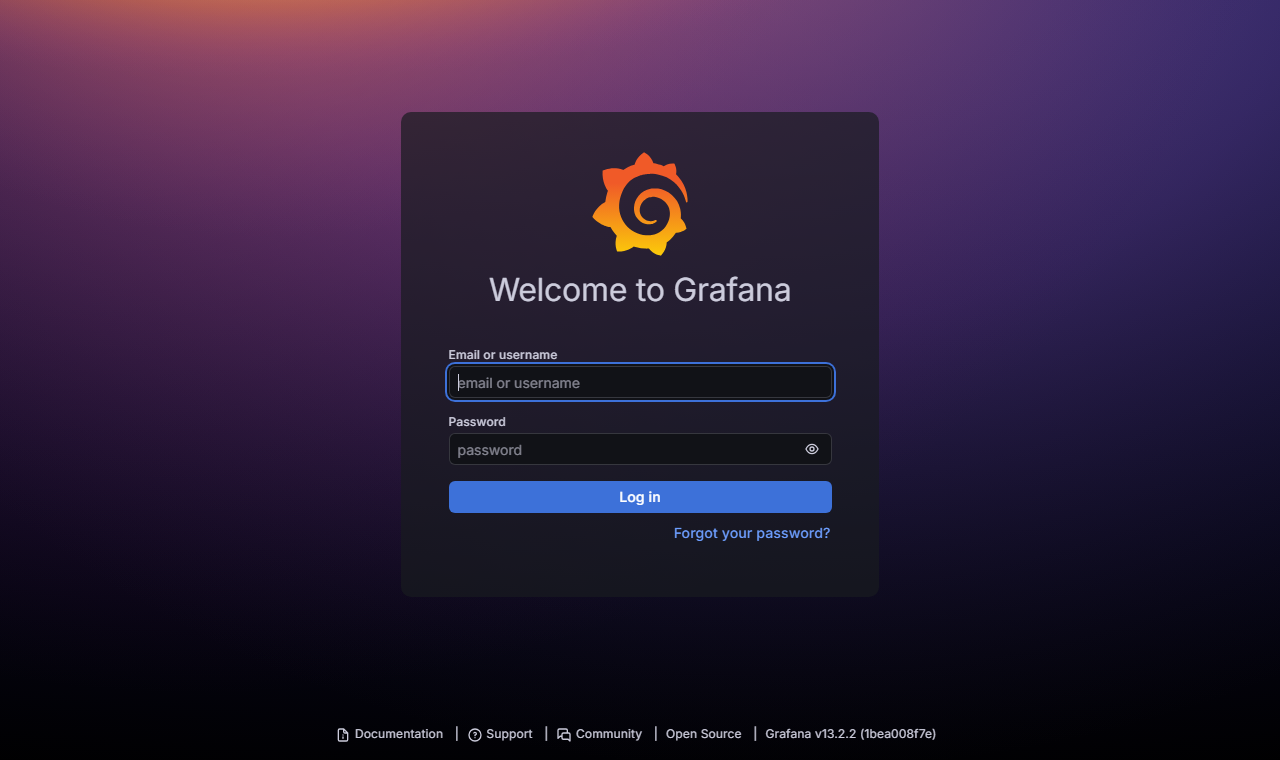
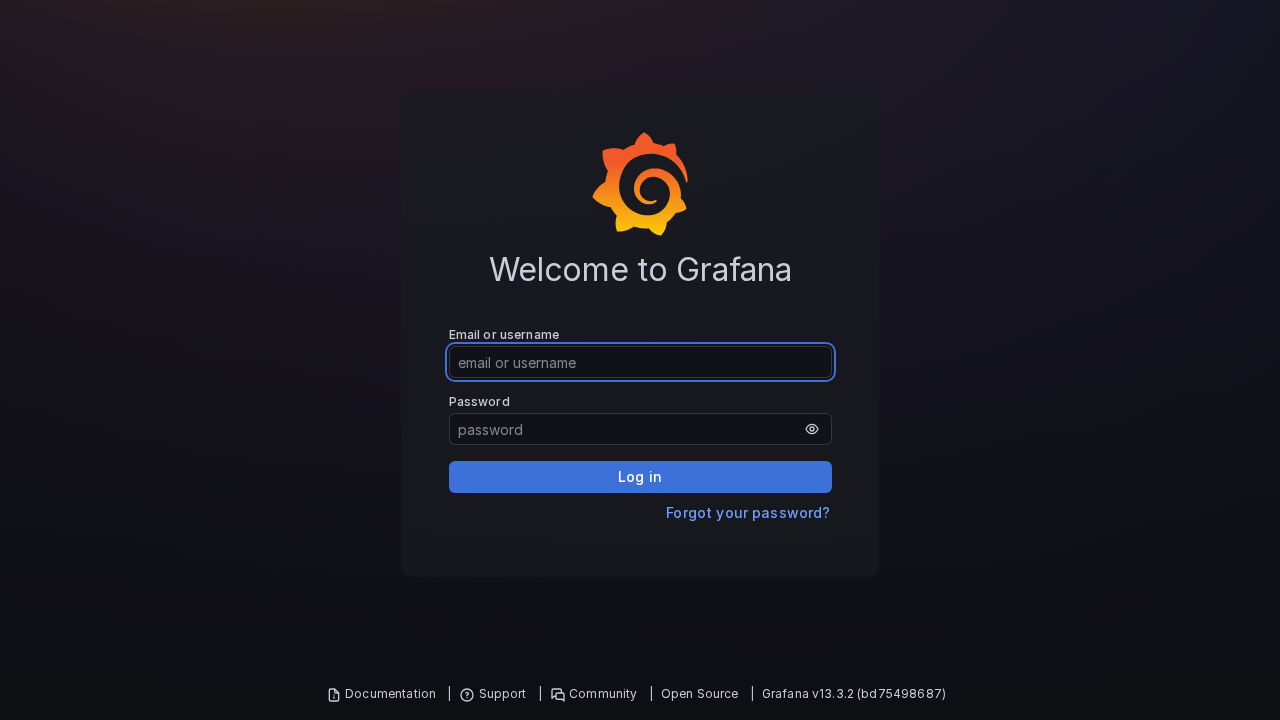
Test Prometheus guide end to end and add real screenshots
Tested every step on Ubuntu 24.04 with AMS Enterprise 3.2.0,
Prometheus 3.14.0, Grafana 13.3.2 and MongoDB 8.0 (two-node cluster).

- Split the Prometheus/Grafana install into 2a/2b/2c with their own checks
- Warn that port 9090 has no password and listens on all interfaces
- Update Grafana 13 click paths (Data sources, Add data source,
  Import dashboard) and the DS_PROMETHEUS selection on import
- Use the live app and give the exact player URL for the viewer check
- Use a second stream ID for the cluster test
- Fix the discovery check: journalctl -n 1 shows a systemd line, so grep
  for "Exported"; show the real JSON output
- Dashboard: stat panels now use instant queries, so a stopped node no
  longer shows as up with frozen values in the Overview row
- Describe what happens to a stopped node in graphs and the Instance menu
- Note leftover data when moving a monitoring server from Part 2 to Part 3
- Remove emoji headings and filler lines; add sidebar position and a note
  on the Kafka-based Grafana guide
- Replace six screenshot placeholders with real screenshots and add one

diff --git a/docs/guides/monitoring/monitoring-ams-with-prometheus.md b/docs/guides/monitoring/monitoring-ams-with-prometheus.md
@@ -2,18 +2,24 @@
 title: Monitoring Ant Media Server with Prometheus
 description: Step by step, see every Ant Media Server metric on a live Grafana dashboard, for a single server, a manual cluster, or an autoscaling cluster.
 keywords: [Prometheus, Grafana, monitoring, metrics, dashboard, cluster, autoscaling, MongoDB, Ant Media Server]
+sidebar_position: 6
+sidebar_label: Prometheus
 ---
 
 # Monitoring Ant Media Server with Prometheus
 
-Ant Media Server (AMS) constantly measures what it is doing: live streams, viewers, CPU, memory and much more. In this guide you'll turn those numbers into a **live dashboard in your browser**, using two free tools:
+Ant Media Server (AMS) measures what it is doing all the time: live streams, viewers, CPU, memory and more. In this guide you turn those numbers into a **live dashboard in your browser**, using two free tools:
 
 - **Prometheus** collects the numbers every 15 seconds and keeps 15 days of history.
-- **Grafana** draws them as graphs, with a ready-made Ant Media dashboard.
+- **Grafana** draws them as graphs, using a ready-made Ant Media dashboard.
 
 ![The finished Ant Media Server dashboard in Grafana](@site/static/img/monitoring/prometheus/grafana-ams-dashboard-overview.png)
 
-At the end you'll be able to answer questions such as *"How many people are watching right now?"*, *"Is my server running out of CPU or disk?"* and *"Which node in my cluster is struggling?"* at a glance.
+When you finish, you can see at a glance how many people are watching, whether a server is running out of CPU or disk, and which node in your cluster is struggling.
+
+:::note
+This guide reads metrics directly from AMS and needs no extra services. If you already send AMS statistics to Kafka and Elasticsearch, see [Monitoring with Grafana](/guides/monitoring/monitoring-ams-with-grafana/) instead.
+:::
 
 ## Choose your setup
 
@@ -25,29 +31,33 @@ At the end you'll be able to answer questions such as *"How many people are watc
 | A cluster with a fixed set of nodes | [Part 2: Manual cluster](#part-2-manual-cluster) | 20 min |
 | A cluster that adds and removes nodes automatically | [Part 3: Autoscaling cluster](#part-3-autoscaling-cluster) | 30 min |
 
-Parts 2 and 3 reuse steps from Part 1, so it helps to read Part 1 first.
+Parts 2 and 3 reuse steps from Part 1, so read Part 1 first even if you have a cluster.
 
-**You'll need:** Ubuntu 24.04 servers, SSH access with `sudo`, and permission to change your firewall or cloud security groups.
+### Requirements
+
+- Servers running **Ubuntu 24.04** on **x86_64**. To check, run `uname -m` on each server. The output must be `x86_64`.
+- SSH access to each server with `sudo` rights.
+- Permission to change your firewall or cloud security groups.
 
 :::tip How to read the commands
-Each code block's title says **where** to run it. After each step, compare your output with **You should see**. Replace anything written like `THIS` with your own value.
+Each code block's title says **where** to run it. After each step, compare your output with **You should see**. Replace anything written in capitals, like `YOUR_SERVER_IP`, with your own value.
 :::
 
 ---
 
 ## Part 1: Standalone server {#part-1-standalone-server}
 
-Everything runs on your AMS server.
+In this part, Prometheus and Grafana run on your AMS server.
 
 ### Step 1: Check that AMS publishes metrics
 
-AMS publishes its metrics on port **9090**. This is switched on by default.
+AMS publishes its metrics on port **9090**. This is turned on by default.
 
 ```bash title="Run on your AMS server"
 curl -s http://127.0.0.1:9090/metrics | grep "^antmedia_streams_live"
 ```
 
-**You should see** a line ending in a number, the live streams right now:
+**You should see** one line ending in a number, which is the number of live streams right now:
 
 ```text
 antmedia_streams_live{antmedia_instance_id="…",antmedia_instance_ip="…",antmedia_private_ip="…"} 0.0
@@ -57,17 +67,35 @@ antmedia_streams_live{antmedia_instance_id="…",antmedia_instance_ip="…",antm
 Make sure `/usr/local/antmedia/conf/red5.properties` contains `prometheus.enabled=true` and `prometheus.port=9090`, then run `sudo systemctl restart antmedia` and try again.
 :::
 
+:::warning Keep port 9090 closed to the internet
+The metrics page has no password, and AMS answers on port 9090 on every network interface. Do **not** open port 9090 in your firewall or security group for the standalone setup. Prometheus reads it from inside the server.
+:::
+
 ### Step 2: Install Prometheus and Grafana {#install}
 
-Paste this whole block. It installs Prometheus 3.14.0 (and checks that the download isn't damaged) and Grafana:
+Prometheus runs on port **9091**, inside the server only, because AMS already uses port 9090.
+
+#### 2a. Download Prometheus and check the file
 
 ```bash title="Run on your AMS server"
-# --- Prometheus ---
 cd ~
 sudo apt-get update
 sudo apt-get install -y curl ca-certificates apt-transport-https wget gnupg
 curl -fLO https://github.com/prometheus/prometheus/releases/download/v3.14.0/prometheus-3.14.0.linux-amd64.tar.gz
 printf '%s\n' 'f665c6da19eb7ba399c915d30c7d9793c9b417bf8a749b504bc470678631478d  prometheus-3.14.0.linux-amd64.tar.gz' | sha256sum -c -
+```
+
+**You should see** this as the last line:
+
+```text
+prometheus-3.14.0.linux-amd64.tar.gz: OK
+```
+
+If you see `FAILED`, the download is damaged. Delete the file with `rm prometheus-3.14.0.linux-amd64.tar.gz` and run the block again.
+
+#### 2b. Install Prometheus as a service
+
+```bash title="Run on your AMS server"
 tar -xzf prometheus-3.14.0.linux-amd64.tar.gz
 sudo install -m 755 prometheus-3.14.0.linux-amd64/prometheus prometheus-3.14.0.linux-amd64/promtool /usr/local/bin/
 id prometheus >/dev/null 2>&1 || sudo useradd --system --no-create-home --shell /usr/sbin/nologin prometheus
@@ -89,24 +117,29 @@ Restart=on-failure
 [Install]
 WantedBy=multi-user.target
 EOF
+sudo systemctl daemon-reload
+prometheus --version | head -n 1
+```
 
-# --- Grafana ---
+**You should see** `prometheus, version 3.14.0`. Prometheus starts in Step 3, after you tell it what to watch.
+
+:::info Disk space
+Prometheus keeps up to **15 GB** of history. If `df -h /` shows less than 20 GB free, change `15GB` in `/etc/systemd/system/prometheus.service` to about half of your free space, then run `sudo systemctl daemon-reload`.
+:::
+
+#### 2c. Install Grafana
+
+```bash title="Run on your AMS server"
 sudo mkdir -p /etc/apt/keyrings/
 wget -q -O - https://apt.grafana.com/gpg.key | gpg --dearmor | sudo tee /etc/apt/keyrings/grafana.gpg > /dev/null
 echo "deb [signed-by=/etc/apt/keyrings/grafana.gpg] https://apt.grafana.com stable main" | sudo tee /etc/apt/sources.list.d/grafana.list
 sudo apt-get update
 sudo apt-get install -y grafana
-sudo systemctl daemon-reload
 sudo systemctl enable --now grafana-server
 systemctl is-active grafana-server
 ```
 
-**You should see** `prometheus-3.14.0.linux-amd64.tar.gz: OK` near the top and `active` at the end.
-
-:::info Good to know
-- Prometheus listens on **9091**, inside the server only, because AMS already uses 9090.
-- Prometheus keeps up to **15 GB** of history. If `df -h /` shows less than 20 GB free, change `15GB` to about half your free space in `/etc/systemd/system/prometheus.service`.
-:::
+**You should see** `active` as the last line.
 
 ### Step 3: Tell Prometheus what to watch
 
@@ -142,38 +175,80 @@ curl -s http://127.0.0.1:9091/api/v1/targets | grep -o '"scrapeUrl":"[^"]*"\|"he
 
 ### Step 4: Open Grafana and import the dashboard {#grafana}
 
-**1. Allow port 3000 from your own IP address.** On AWS: **EC2 → Security Groups →** your server's group **→ Edit inbound rules → Add rule**, then set **Custom TCP**, port **3000**, source **My IP**, and save. Other clouds have the same setting in their firewall.
+#### 4a. Allow port 3000 from your own IP address
+
+Grafana runs on port **3000**. Allow it only from your own IP address.
+
+On AWS, go to **EC2 → Security Groups**, select your server's security group, then click **Edit inbound rules → Add rule**. Set **Type** to **Custom TCP**, **Port range** to **3000**, and **Source** to **My IP**, then click **Save rules**. Other cloud providers have the same setting in their firewall.
 
 ![AWS inbound rule: TCP 3000 from My IP](@site/static/img/monitoring/prometheus/aws-security-group-port-3000.png)
 
-**2. Sign in.** Open `http://YOUR_SERVER_IP:3000`, sign in with **admin** / **admin**, and choose a new password.
+Also check the firewall on the server itself:
+
+```bash title="Run on your AMS server"
+sudo ufw status
+```
+
+If the output is `Status: inactive`, there is nothing to do. This is the default on Ubuntu, including on AWS. If it is `Status: active`, run `sudo ufw allow from YOUR_OWN_IP to any port 3000 proto tcp`.
+
+#### 4b. Sign in to Grafana
+
+Open `http://YOUR_SERVER_IP:3000` in your browser. Sign in with username **admin** and password **admin**.
 
 ![Grafana sign-in page](@site/static/img/monitoring/prometheus/grafana-login.png)
 
-**3. Connect Prometheus.** Go to **Connections → Data sources → Add new data source → Prometheus**. Enter `http://127.0.0.1:9091` as the **Prometheus server URL**, scroll down, and click **Save & test**. A green success message appears.
+Grafana then asks you to choose a new password. Enter it twice and click **Submit**. Do not click **Skip**, because anyone who can reach port 3000 could then sign in with `admin` / `admin`.
 
-![Prometheus server URL set to http://127.0.0.1:9091](@site/static/img/monitoring/prometheus/grafana-data-source-url.png)
+#### 4c. Connect Grafana to Prometheus
 
-**4. Import the Ant Media dashboard.** Download **[ams-prometheus-grafana-dashboard.json](pathname:///files/ams-prometheus-grafana-dashboard.json)**. In Grafana, go to **Dashboards → New → Import**, upload the file, choose your **Prometheus** data source, and click **Import**.
+1. In the left menu, click **Connections** to open it, then click **Data sources**.
+2. Click **Add data source**, then click **Prometheus**.
+3. In **Prometheus server URL**, enter `http://127.0.0.1:9091`.
 
-![Importing the dashboard file in Grafana](@site/static/img/monitoring/prometheus/grafana-import-dashboard.png)
+   ![Prometheus server URL set to http://127.0.0.1:9091](@site/static/img/monitoring/prometheus/grafana-data-source-url.png)
 
-### 🎉 Step 5: Watch it come alive {#come-alive}
+4. Scroll to the bottom of the page and click **Save & test**.
 
-Send a 2-minute test stream to your server:
+**You should see** a green box with **Successfully queried the Prometheus API.** Grafana names the new data source `prometheus`.
+
+![Grafana confirms the connection to Prometheus](@site/static/img/monitoring/prometheus/grafana-data-source-success.png)
+
+#### 4d. Import the Ant Media dashboard
+
+1. Download **[ams-prometheus-grafana-dashboard.json](pathname:///files/ams-prometheus-grafana-dashboard.json)** to your computer.
+2. In Grafana, click **Dashboards** in the left menu, then click **New → Import dashboard**.
+3. Click the upload area and select the file you downloaded.
+4. Under **DS_PROMETHEUS**, click the box and choose **prometheus**. The box shows grey hint text until you choose, so make sure **prometheus** with the Prometheus logo is shown, as in the picture below.
+5. Click **Import**.
+
+![Importing the dashboard with the prometheus data source selected](@site/static/img/monitoring/prometheus/grafana-import-dashboard.png)
+
+**You should see** the **Ant Media Server - All Prometheus Metrics** dashboard, with **Scrape target up** showing **1**.
+
+### Step 5: Send a test stream {#come-alive}
+
+Send a 2-minute test stream to the `live` application:
 
 ```bash title="Run on your AMS server"
 sudo apt-get install -y ffmpeg
 timeout 120 ffmpeg -re -f lavfi -i testsrc=size=640x360:rate=25 -f lavfi -i sine=frequency=440 \
   -c:v libx264 -preset veryfast -tune zerolatency -g 50 -c:a aac \
-  -f flv rtmp://127.0.0.1/LiveApp/test-stream
+  -f flv rtmp://127.0.0.1/live/test-stream
 ```
 
-Within 30 seconds, **Live streams** on your dashboard jumps from **0** to **1**. Open the stream in the AMS web panel and the **viewer** count rises too.
+Within 30 seconds, **Live streams** on your dashboard changes from **0** to **1**.
+
+To see the viewer count change too, open this page in your browser while the stream runs:
+
+```text
+http://YOUR_SERVER_IP:5080/live/play.html?id=test-stream
+```
+
+**WebRTC viewers** rises to **1**. If UDP ports 50000 to 60000 are closed to you, the player falls back to HLS and **HLS viewers** rises instead.
 
 ![Live streams rising to 1 during the test stream](@site/static/img/monitoring/prometheus/grafana-ams-dashboard-streaming.png)
 
-**That's it, your server is monitored.** Prometheus keeps recording in the background, even after reboots. Come back to this dashboard any time to see how your server is doing now, or how it did last week.
+Your server is now monitored. Prometheus keeps recording in the background, also after a reboot. Open the dashboard any time to see how the server is doing now, or how it did over the last 15 days.
 
 ---
 
@@ -203,11 +278,11 @@ Find each node's **private IP** by running `hostname -I` on it. The first addres
 curl -s -m 5 http://NODE_PRIVATE_IP:9090/metrics | grep -c "^antmedia_"
 ```
 
-**You should see** a number, about `12`, for every node. `0` after a 5-second pause means port 9090 is still blocked.
+**You should see** `12` for every node. If you see `0` after a 5-second pause, port 9090 is still blocked.
 
 ### Step 2: Install Prometheus and Grafana
 
-On the **monitoring server**, run the block from [Part 1, Step 2](#install).
+On the **monitoring server**, run Steps 2a, 2b and 2c from [Part 1, Step 2](#install).
 
 ### Step 3: List your nodes
 
@@ -245,9 +320,13 @@ When you add or remove a node later, edit this file and run `sudo systemctl relo
 
 Follow [Part 1, Step 4](#grafana), using the **monitoring server's** public IP and security group.
 
-### 🎉 Your whole cluster on one screen
+### Step 5: See your whole cluster
 
-The **Instance** menu at the top of the dashboard now lists **every node**. Choose **All** to compare them side by side, or pick one to focus on it. Run the test stream from [Part 1, Step 5](#come-alive) on two nodes and watch **Live streams** add up to **2**.
+The **Instance** menu at the top of the dashboard lists **every node**. Choose **All** to compare them side by side, or pick one node to focus on it.
+
+To check that every node is counted, send a test stream to two nodes. Run the test stream command from [Part 1, Step 5](#come-alive) on the first node. On the second node, run the same command but change `test-stream` to `test-stream-2`. Two streams in one cluster cannot share a stream ID. If you use the same name, the second command stops with `Input/output error`.
+
+**You should see** **Live streams** on the dashboard rise to **2**.
 
 ![Instance menu listing every node in the cluster](@site/static/img/monitoring/prometheus/cluster-grafana-instance-dropdown.png)
 
@@ -510,20 +589,37 @@ EOF
 sudo systemctl daemon-reload
 sudo systemctl start ams-prometheus-discovery.service
 sudo systemctl enable --now ams-prometheus-discovery.timer
-sudo journalctl -u ams-prometheus-discovery.service -n 1 --no-pager -o cat
+sudo journalctl -u ams-prometheus-discovery.service --no-pager -o cat | grep Exported | tail -n 1
 sudo -u prometheus cat /var/lib/prometheus/file_sd/antmedia.json
 ```
 
 </details>
 
-**You should see** `Exported 2 AMS targets` (one per running node), followed by a list of your nodes' private IPs, like this:
+**You should see** `Exported 2 AMS targets` (one per running node), followed by the list of your nodes' private IPs:
 
-```json
+```text
+Exported 2 AMS targets
 [
-  { "targets": ["172.31.1.195:9090"], "labels": { "ams_node_ip": "172.31.1.195" } },
-  { "targets": ["172.31.36.209:9090"], "labels": { "ams_node_ip": "172.31.36.209" } }
+  {
+    "targets": [
+      "172.31.10.186:9090"
+    ],
+    "labels": {
+      "ams_node_ip": "172.31.10.186"
+    }
+  },
+  {
+    "targets": [
+      "172.31.15.191:9090"
+    ],
+    "labels": {
+      "ams_node_ip": "172.31.15.191"
+    }
+  }
 ]
 ```
+
+The program now runs every 30 seconds by itself. You do not need to start it again.
 
 ### Step 4: Point Prometheus at the discovered nodes
 
@@ -554,36 +650,42 @@ curl -s http://127.0.0.1:9091/api/v1/targets | grep -o '"scrapeUrl":"[^"]*"\|"he
 
 **You should see** every node with `"health":"up"`. Then open Grafana as in [Part 1, Step 4](#grafana).
 
-### 🎉 Watch your monitoring follow the cluster
+:::note Moving from Part 2 to Part 3 on the same monitoring server
+If this monitoring server used the fixed node list from Part 2 before, the dashboard can show each node twice, and totals such as **Live streams** can be too high, for up to 5 minutes after this step. This is old data from the fixed list. It clears by itself.
+:::
 
-This is the reward. Stop AMS on one node:
+### Step 5: Check that monitoring follows the cluster
+
+Stop AMS on one node:
 
 ```bash title="Run on any AMS node"
 sudo systemctl stop antmedia
 ```
 
-Within **30 seconds** the node disappears from the dashboard. Nothing to edit, nothing to reload.
+Within **30 seconds**, the node disappears from the **Overview** row at the top of the dashboard. You do not need to edit or reload anything. The graphs below still show the node's history, and the node stays in the **Instance** menu until it is older than the time range you are viewing.
 
 ![The dashboard after one node was stopped](@site/static/img/monitoring/prometheus/cluster-grafana-node-removed.png)
 
-Start it again with `sudo systemctl start antmedia`, and within 30 seconds it's back. New nodes created by autoscaling appear the same way. **Your monitoring now grows and shrinks with your cluster, on its own.**
+Start AMS again with `sudo systemctl start antmedia`. Within about a minute, the node is back on the dashboard. New nodes created by autoscaling appear the same way, so your monitoring now grows and shrinks with your cluster.
 
 :::tip If a node crashes
-A node that stops normally disappears right away. A node that **crashes** stays on the dashboard with **Scrape target up = 0** for 5 minutes before it is removed, so you notice it. That's a good moment to [create a Grafana alert](https://grafana.com/docs/grafana/latest/alerting/) on `up{job="antmedia"} == 0`.
+A node that stops normally disappears within 30 seconds. A node that **crashes** or freezes stays on the dashboard with **Scrape target up** showing **0** for 5 minutes before it is removed, so you notice it. To be told when this happens, [create a Grafana alert](https://grafana.com/docs/grafana/latest/alerting/) on `up{job="antmedia"} == 0`.
 :::
 
 ---
 
 ## What's on the dashboard
 
-The dashboard shows every metric AMS publishes. Use **Instance** to pick a server and the time picker (top right) to look back up to 15 days.
+The dashboard shows every metric AMS publishes. Use **Instance** to pick a server, and the time picker at the top right to look back up to 15 days. The **Overview** row always shows the current values. The other rows show graphs over the selected time range.
 
 | Section | What it tells you | Watch out for |
 | --- | --- | --- |
 | **Overview** | Up/down, streams, viewers, CPU, uptime | **Scrape target up** = `0`: Prometheus can't reach that server |
 | **Streaming** | Streams, viewers per protocol, encoder problems, publish timeouts | Blocked encoders or publish timeouts above `0` |
 | **System / host** | CPU, load, memory, disk, open files | CPU near 100% or disk almost full |
-| **JVM memory & GC** | Memory and pauses inside the Java engine that runs AMS | Heap **used** close to **max**; long GC pauses |
+| **JVM memory** | Memory used inside the Java engine that runs AMS | Heap **used** close to **max** |
+| **JVM garbage collection** | How often and how long Java pauses to free memory | Long or frequent GC pauses |
+| **JVM threads, classes, JIT** | Threads, loaded classes and code compilation | Thread count that keeps growing |
 | **Logging** | Error and warning messages per second | A sudden rise in **error** |
 
 To see the raw numbers, run `curl -s http://127.0.0.1:9090/metrics` on any AMS server.
@@ -594,8 +696,10 @@ To see the raw numbers, run `curl -s http://127.0.0.1:9090/metrics` on any AMS s
 | --- | --- |
 | A target shows `"health":"down"` | AMS is stopped on that server, or port 9090 is blocked from Prometheus. Run `systemctl is-active antmedia` on the node and recheck the security group. |
 | Grafana doesn't open on port 3000 | Check the port 3000 rule and that it uses your **current** IP. Check `systemctl is-active grafana-server`. |
+| Dashboard panels show **No data** or a data source error right after importing | The **DS_PROMETHEUS** box was left empty during import. Import the file again and choose **prometheus** in that box, as in [Step 4d](#grafana). |
 | **Save & test** fails in Grafana | The URL must be exactly `http://127.0.0.1:9091`, and `systemctl is-active prometheus` must say `active`. |
 | Dashboard says **No data** | Set **Instance** to **All** and the time range to **Last 15 minutes**. Make sure you picked the Prometheus data source when importing. |
+| Nodes appear twice, or totals are too high, right after Part 3 Step 4 | The monitoring server used the fixed node list from Part 2 before. Wait 5 minutes and it clears by itself. |
 | `Discovery failed (ServerSelectionTimeoutError)` | The monitoring server can't reach MongoDB on 27017. Check MongoDB's security group. |
 | `Discovery failed (OperationFailure)` | The saved `ams_discovery` password is wrong. Check it with [Step 2e](#discovery-login), then run Step 3b again to save the right one. |
 | A security-group IP range doesn't work | The range must contain the servers' **private** IPs: `172.0.0.0/16` does **not** include `172.31.5.10`, but `172.31.0.0/16` does. Using a security group as the source avoids this. |
